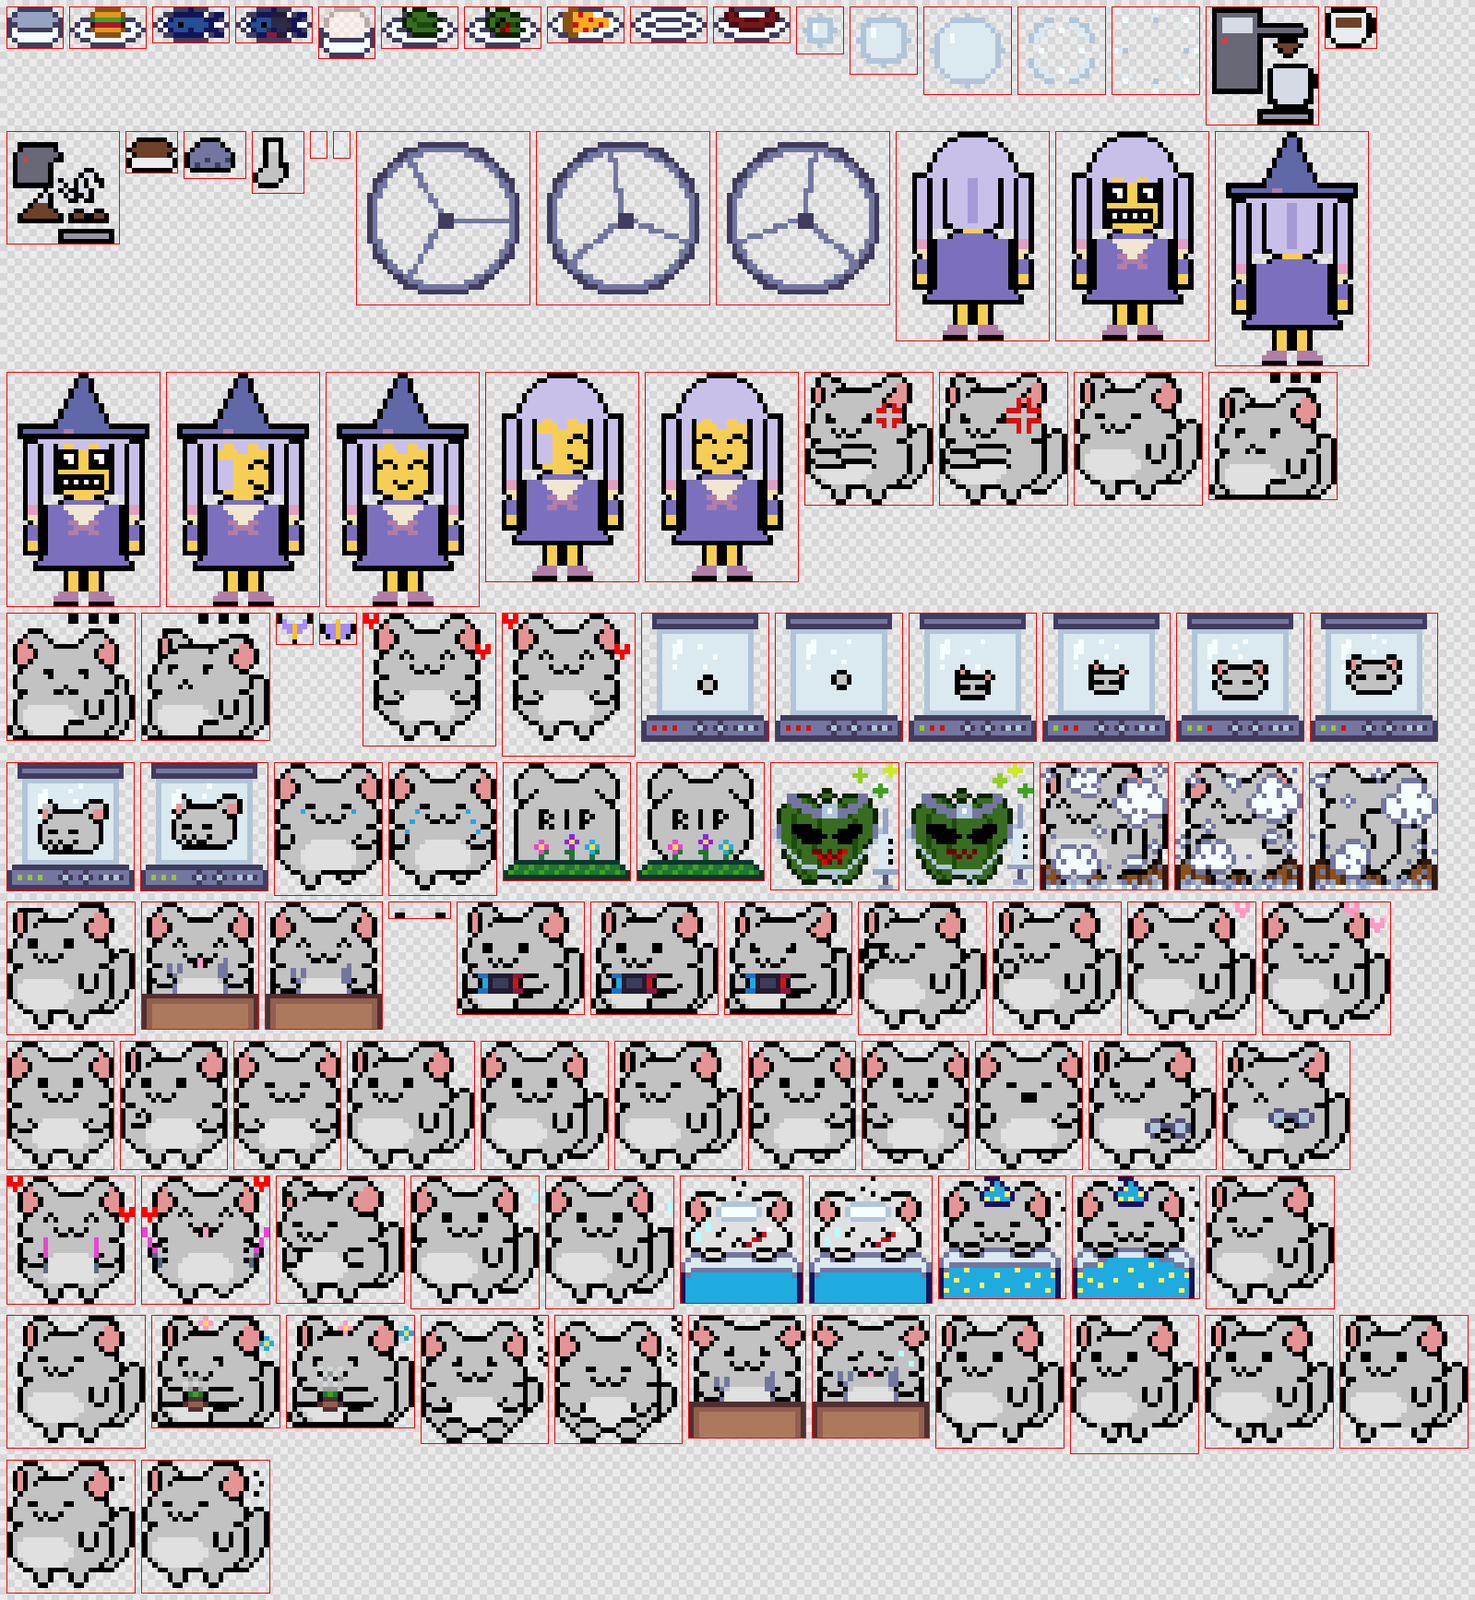
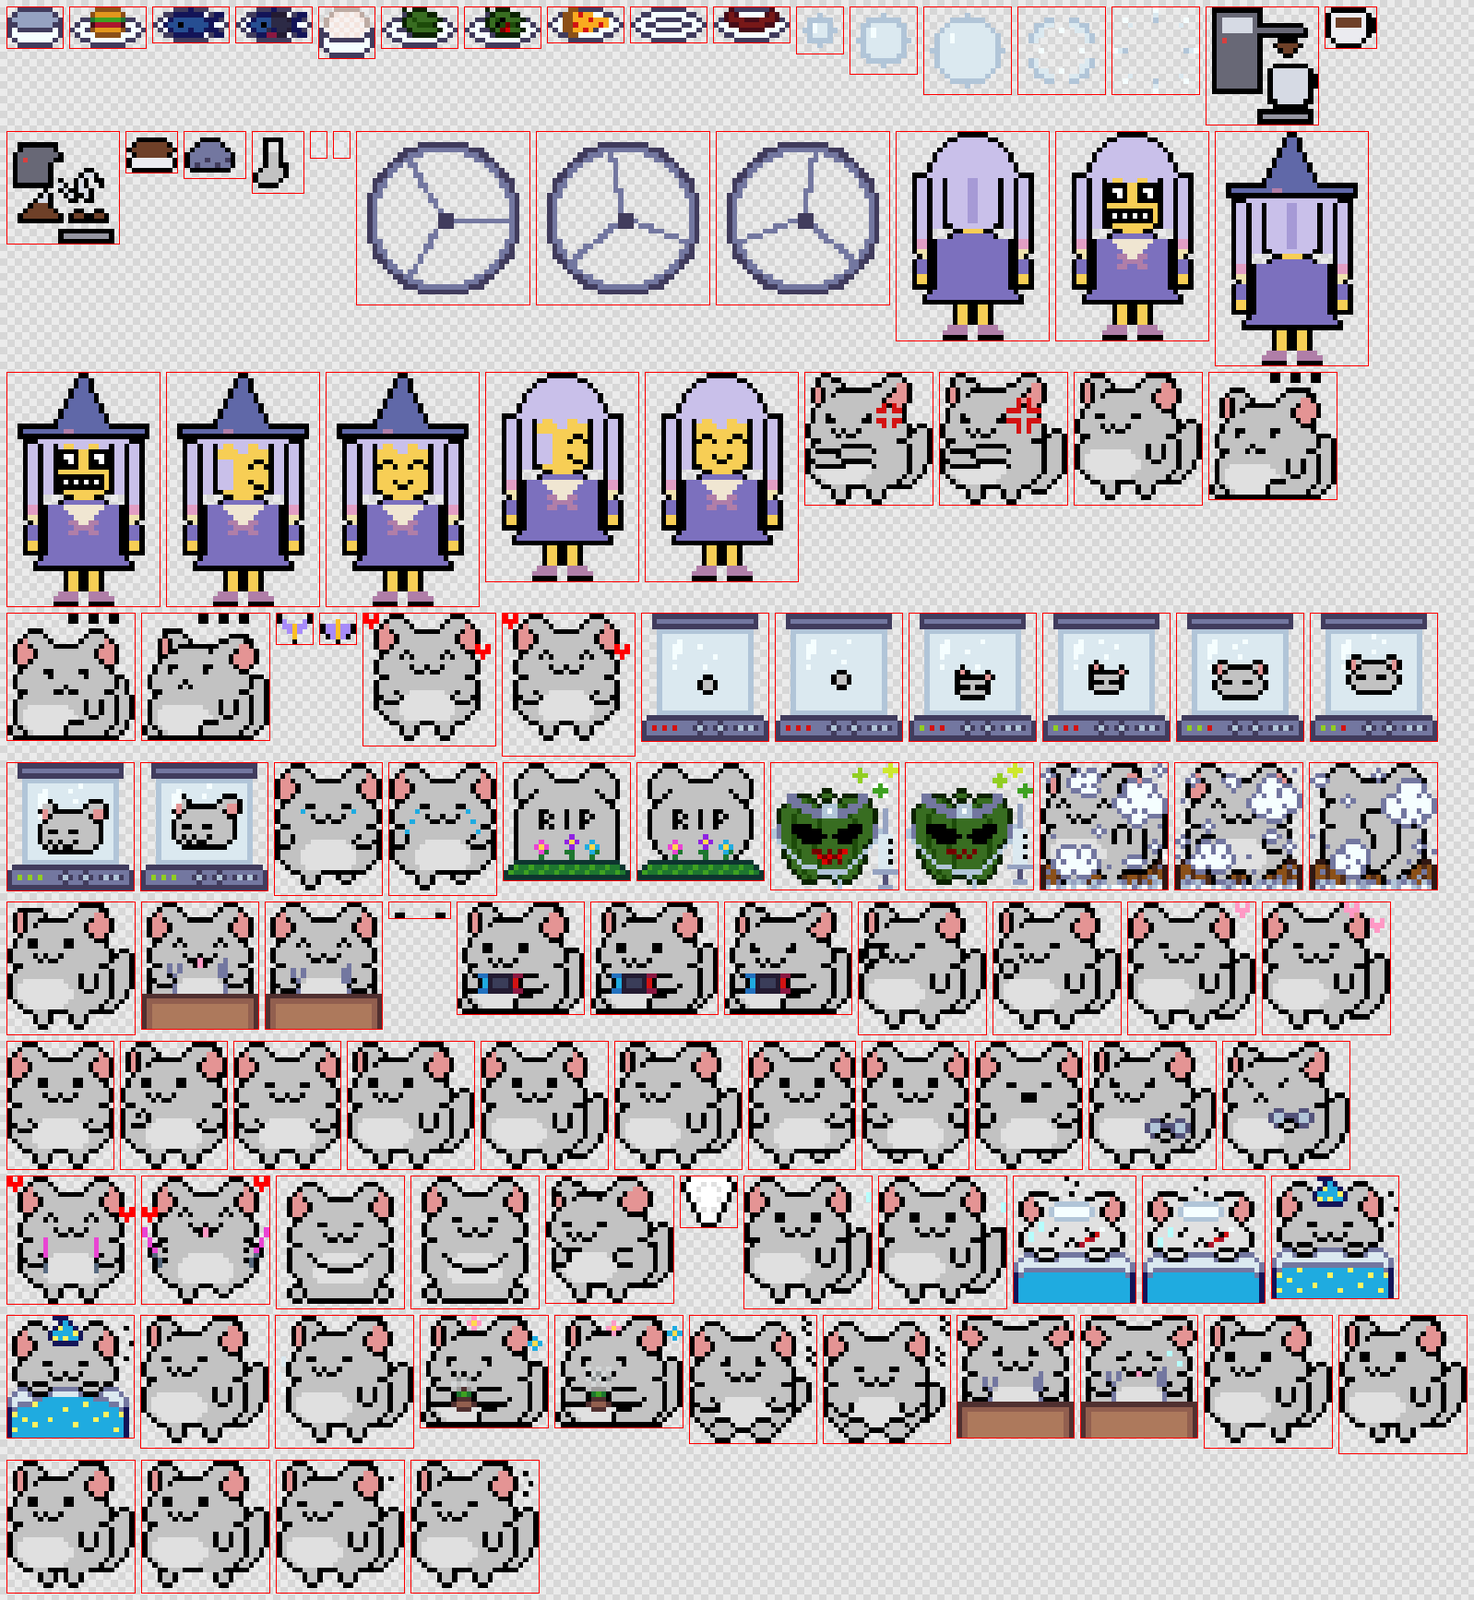
Added the Sage Beard and Meditation Sprites with Their Head Anchors

diff --git a/src/game/scene/head.ts b/src/game/scene/head.ts
@@ -12,6 +12,9 @@
 //     between the eyes, one art pixel above them. Not the hat anchor: the dip
 //     is the top of the skull, and tufts hung from it stood above the outline
 //     like a second pair of ears.
+//   • `beard` — where a sage's beard hangs (bottom-centre, like the brows):
+//     centred on the mouth, its top row the mouth's top row, so the moustache
+//     covers the mouth and the beard falls down the chest.
 //   • `nightcap` — the art already wears a hat here, so no cosmetic goes on
 //     top of it.
 //
@@ -19,8 +22,8 @@
 // gravestone, the medicine, the pet inside the cloning tank.
 //
 // Generated by `npm run head-anchors` and reviewed on its contact sheet; the
-// null frames are hand-set, as are dustbath3 and groom1, whose head and eye
-// are hidden.
+// null frames are hand-set, as are the dust bath's second and third frames
+// and groom1, where the dust or a paw hides an eye or the mouth.
 
 import type { FrameName } from "../atlas.generated";
 
@@ -28,16 +31,17 @@ export type HeadAnchor = {
   x: number;
   y: number;
   brows: { x: number; y: number };
+  beard: { x: number; y: number };
   nightcap?: true;
 };
 
 export const HEAD_ANCHORS: Partial<Record<FrameName, HeadAnchor | null>> = {
-  blink: { x: -13, y: -126, brows: { x: -22, y: -104 } },
-  bored1: { x: -7, y: -104, brows: { x: -17, y: -82 } },
-  bored2: { x: -6, y: -104, brows: { x: -6, y: -82 } },
-  bored3: { x: -2, y: -104, brows: { x: -17, y: -87 } },
-  cheer1: { x: -2, y: -126, brows: { x: -2, y: -109 } },
-  cheer2: { x: -2, y: -137, brows: { x: -2, y: -120 } },
+  blink: { x: -13, y: -126, brows: { x: -22, y: -104 }, beard: { x: -25, y: -33 } },
+  bored1: { x: -7, y: -104, brows: { x: -17, y: -82 }, beard: { x: -19, y: -5 } },
+  bored2: { x: -6, y: -104, brows: { x: -6, y: -82 }, beard: { x: -6, y: -5 } },
+  bored3: { x: -2, y: -104, brows: { x: -17, y: -87 }, beard: { x: -22, y: -11 } },
+  cheer1: { x: -2, y: -126, brows: { x: -2, y: -109 }, beard: { x: -2, y: -33 } },
+  cheer2: { x: -2, y: -137, brows: { x: -2, y: -120 }, beard: { x: -2, y: -44 } },
   clone1: null,
   clone2: null,
   clone3: null,
@@ -46,51 +50,53 @@ export const HEAD_ANCHORS: Partial<Record<FrameName, HeadAnchor | null>> = {
   clone6: null,
   clone7: null,
   clone8: null,
-  cry1: { x: 0, y: -126, brows: { x: 0, y: -104 } },
-  cry2: { x: 0, y: -126, brows: { x: 0, y: -104 } },
+  cry1: { x: 0, y: -126, brows: { x: 0, y: -104 }, beard: { x: 0, y: -33 } },
+  cry2: { x: 0, y: -126, brows: { x: 0, y: -104 }, beard: { x: 0, y: -33 } },
   dead1: null,
   drpepper1: null,
   drpepper2: null,
-  dustbath1: { x: -9, y: -126, brows: { x: -22, y: -104 } },
-  dustbath2: { x: 2, y: -121, brows: { x: 0, y: -87 } },
-  dustbath3: { x: 2, y: -121, brows: { x: 0, y: -87 } }, // dustbath2's pose, head under the dust
-  earTwitch: { x: -13, y: -126, brows: { x: -22, y: -109 } },
-  eat1: { x: 0, y: -121, brows: { x: 0, y: -104 } },
-  eat2: { x: 0, y: -121, brows: { x: 0, y: -104 } },
-  game1: { x: -7, y: -105, brows: { x: -16, y: -82 } },
-  game2: { x: -7, y: -105, brows: { x: -16, y: -82 } },
-  game3: { x: -7, y: -105, brows: { x: -16, y: -82 } },
-  groom1: { x: -13, y: -126, brows: { x: -22, y: -104 } }, // groom2's head, one eye behind the paw
-  groom2: { x: -13, y: -126, brows: { x: -22, y: -104 } },
-  heart1: { x: 0, y: -126, brows: { x: -11, y: -104 } },
-  heart2: { x: 0, y: -126, brows: { x: -11, y: -104 } },
-  idleFront1: { x: 0, y: -121, brows: { x: 0, y: -104 } },
-  idleSide1: { x: -12, y: -121, brows: { x: -22, y: -104 } },
-  idleSide2: { x: -11, y: -121, brows: { x: -11, y: -104 } },
-  idleSide3: { x: -12, y: -121, brows: { x: -22, y: -99 } },
-  lift1: { x: -12, y: -121, brows: { x: -22, y: -104 } },
-  lift2: { x: -12, y: -121, brows: { x: -22, y: -104 } },
-  lights1: { x: 0, y: -121, brows: { x: 0, y: -104 } },
-  lights2: { x: 0, y: -121, brows: { x: 0, y: -104 } },
-  pekori: { x: -14, y: -121, brows: { x: -28, y: -93 } },
-  shiver1: { x: -11, y: -126, brows: { x: -11, y: -109 } },
-  shiver2: { x: -11, y: -126, brows: { x: -11, y: -109 } },
-  sick1: { x: -3, y: -110, brows: { x: -3, y: -87 } },
-  sick2: { x: -3, y: -110, brows: { x: -3, y: -87 } },
-  sleep1: { x: -5, y: -116, brows: { x: -5, y: -88 }, nightcap: true },
-  sleep2: { x: -5, y: -116, brows: { x: -5, y: -88 }, nightcap: true },
-  sneeze1: { x: -13, y: -126, brows: { x: -22, y: -104 } },
-  sneeze2: { x: -7, y: -126, brows: { x: -16, y: -104 } },
-  tea1: { x: -7, y: -105, brows: { x: -17, y: -82 } },
-  tea2: { x: -7, y: -105, brows: { x: -17, y: -82 } },
-  tired1: { x: -11, y: -116, brows: { x: -11, y: -99 } },
-  tired2: { x: -11, y: -116, brows: { x: -11, y: -88 } },
-  unhappyEat1: { x: 0, y: -121, brows: { x: 0, y: -104 } },
-  unhappyEat2: { x: 0, y: -121, brows: { x: 0, y: -93 } },
-  walk1: { x: -13, y: -126, brows: { x: -22, y: -109 } },
-  walk2: { x: -13, y: -132, brows: { x: -22, y: -115 } },
-  walk3: { x: -13, y: -126, brows: { x: -22, y: -109 } },
-  walk4: { x: -13, y: -126, brows: { x: -22, y: -109 } },
-  yawn1: { x: -13, y: -126, brows: { x: -22, y: -104 } },
-  yawn2: { x: -13, y: -126, brows: { x: -22, y: -104 } },
+  dustbath1: { x: -9, y: -126, brows: { x: -22, y: -104 }, beard: { x: -25, y: -27 } },
+  dustbath2: { x: 2, y: -121, brows: { x: 0, y: -102 }, beard: { x: 0, y: -27 } }, // one eye under the dust: brows over it, beard on the mouth
+  dustbath3: { x: 2, y: -121, brows: { x: 0, y: -102 }, beard: { x: 0, y: -27 } }, // dustbath2's pose, head under the dust
+  earTwitch: { x: -13, y: -126, brows: { x: -22, y: -109 }, beard: { x: -25, y: -33 } },
+  eat1: { x: 0, y: -121, brows: { x: 0, y: -104 }, beard: { x: 0, y: -27 } },
+  eat2: { x: 0, y: -121, brows: { x: 0, y: -104 }, beard: { x: 0, y: -27 } },
+  game1: { x: -7, y: -105, brows: { x: -16, y: -82 }, beard: { x: -19, y: -6 } },
+  game2: { x: -7, y: -105, brows: { x: -16, y: -82 }, beard: { x: -19, y: -6 } },
+  game3: { x: -7, y: -105, brows: { x: -16, y: -82 }, beard: { x: -19, y: -6 } },
+  groom1: { x: -13, y: -126, brows: { x: -22, y: -104 }, beard: { x: -25, y: -33 } }, // groom2's head, one eye and the mouth behind the paw
+  groom2: { x: -13, y: -126, brows: { x: -22, y: -104 }, beard: { x: -25, y: -33 } },
+  heart1: { x: 0, y: -126, brows: { x: -11, y: -104 }, beard: { x: -11, y: -33 } },
+  heart2: { x: 0, y: -126, brows: { x: -11, y: -104 }, beard: { x: -11, y: -33 } },
+  idleFront1: { x: 0, y: -121, brows: { x: 0, y: -104 }, beard: { x: 0, y: -28 } },
+  idleSide1: { x: -12, y: -121, brows: { x: -22, y: -104 }, beard: { x: -25, y: -28 } },
+  idleSide2: { x: -11, y: -121, brows: { x: -11, y: -104 }, beard: { x: -11, y: -28 } },
+  idleSide3: { x: -12, y: -121, brows: { x: -22, y: -99 }, beard: { x: -25, y: -28 } },
+  lift1: { x: -12, y: -121, brows: { x: -22, y: -104 }, beard: { x: -25, y: -28 } },
+  lift2: { x: -12, y: -121, brows: { x: -22, y: -104 }, beard: { x: -27, y: -28 } },
+  lights1: { x: 0, y: -121, brows: { x: 0, y: -104 }, beard: { x: 0, y: -28 } },
+  lights2: { x: 0, y: -121, brows: { x: 0, y: -104 }, beard: { x: 0, y: -33 } },
+  meditate1: { x: 0, y: -121, brows: { x: 0, y: -98 }, beard: { x: 0, y: -27 } },
+  meditate2: { x: 0, y: -126, brows: { x: 0, y: -104 }, beard: { x: 0, y: -33 } },
+  pekori: { x: -14, y: -121, brows: { x: -28, y: -93 }, beard: { x: -31, y: -22 } },
+  shiver1: { x: -11, y: -126, brows: { x: -11, y: -109 }, beard: { x: -11, y: -33 } },
+  shiver2: { x: -11, y: -126, brows: { x: -11, y: -109 }, beard: { x: -11, y: -33 } },
+  sick1: { x: -3, y: -110, brows: { x: -3, y: -87 }, beard: { x: -3, y: -16 } },
+  sick2: { x: -3, y: -110, brows: { x: -3, y: -87 }, beard: { x: -3, y: -16 } },
+  sleep1: { x: -5, y: -116, brows: { x: -5, y: -88 }, beard: { x: -5, y: -17 }, nightcap: true },
+  sleep2: { x: -5, y: -116, brows: { x: -5, y: -88 }, beard: { x: -5, y: -17 }, nightcap: true },
+  sneeze1: { x: -13, y: -126, brows: { x: -22, y: -104 }, beard: { x: -25, y: -33 } },
+  sneeze2: { x: -7, y: -126, brows: { x: -16, y: -104 }, beard: { x: -19, y: -33 } },
+  tea1: { x: -7, y: -105, brows: { x: -17, y: -82 }, beard: { x: -20, y: -6 } },
+  tea2: { x: -7, y: -105, brows: { x: -17, y: -82 }, beard: { x: -20, y: -6 } },
+  tired1: { x: -11, y: -116, brows: { x: -11, y: -99 }, beard: { x: -11, y: -22 } },
+  tired2: { x: -11, y: -116, brows: { x: -11, y: -88 }, beard: { x: -11, y: -17 } },
+  unhappyEat1: { x: 0, y: -121, brows: { x: 0, y: -104 }, beard: { x: 0, y: -28 } },
+  unhappyEat2: { x: 0, y: -121, brows: { x: 0, y: -93 }, beard: { x: 0, y: -22 } },
+  walk1: { x: -13, y: -126, brows: { x: -22, y: -109 }, beard: { x: -25, y: -33 } },
+  walk2: { x: -13, y: -132, brows: { x: -22, y: -115 }, beard: { x: -25, y: -39 } },
+  walk3: { x: -13, y: -126, brows: { x: -22, y: -109 }, beard: { x: -25, y: -33 } },
+  walk4: { x: -13, y: -126, brows: { x: -22, y: -109 }, beard: { x: -25, y: -33 } },
+  yawn1: { x: -13, y: -126, brows: { x: -22, y: -104 }, beard: { x: -25, y: -33 } },
+  yawn2: { x: -13, y: -126, brows: { x: -22, y: -104 }, beard: { x: -25, y: -33 } },
 };

diff --git a/scripts/head-anchors.ts b/scripts/head-anchors.ts
@@ -1,7 +1,7 @@
 // Finds where the head is on every pet frame, for the table in
 // src/game/scene/head.ts (SPEC §10.5). Run `npm run head-anchors` after adding
 // pet frames; it prints candidate entries to paste, and a contact sheet with
-// the crown and an elder's brow tufts drawn on every frame for a look before
+// the crown, an elder's brow tufts and a sage's beard drawn on every frame for a look before
 // committing.
 //
 // Three things are read off the art:
@@ -15,13 +15,18 @@
 //     contours, which touch pink — level with each other and an eye-spacing
 //     apart. The tufts' brow bars sit one art pixel above them, and their fur
 //     never rises above the head outline.
+//   • The beard. The mouth is the small enclosed black marks a row of fur
+//     under the eyes and between them — the nose dot and the two curls of the
+//     smile, or whatever shape the pose pulls it into. A sage's beard hangs
+//     from the mouth's top row, centred on it, so the moustache covers the
+//     mouth and the beard falls down the chest.
 //   • A nightcap. When the skyline at the anchor column is a vivid colour the
 //     pet itself never is, the art already wears a hat, and a cosmetic drawn
 //     there would land on top of it.
 //
 // Frames with no ears (the egg, the gravestone, the medicine) get no
-// candidate and wear nothing; a frame whose eyes are hidden prints a comment
-// asking for its brows by hand.
+// candidate and wear nothing; a frame whose eyes or mouth are hidden prints a
+// comment asking for that point by hand.
 
 import { readFileSync, writeFileSync } from "node:fs";
 import { PNG } from "pngjs";
@@ -36,7 +41,18 @@ const MIN_EAR_PIXELS = 12;
 const EYE_SPACING = { min: 25, max: 50 };
 /** Rows between the bottom of the brow bars and the top of the eyes: one art pixel. */
 const BROW_GAP = 5;
+/**
+ * Rows of fur between the bottom of the eyes and the top of the mouth: at
+ * least one art pixel. A mark any nearer is the eye's own corner — the droop
+ * of a tired eye, the wings of a happy ^ ^ — not a piece of the mouth.
+ */
+const MOUTH_GAP = 5;
+/** How far below the eyes the mouth can start, in frame pixels: four art pixels. */
+const MOUTH_REACH = 22;
+/** A mark bigger than this under the eyes is a paw or a prop, not a piece of the mouth. */
+const MAX_MOUTH_PIECE = 100;
 const BROWS = SPRITE_FRAMES.elderBrows;
+const BEARD = SPRITE_FRAMES.sageBeard;
 
 type Rgba = [number, number, number, number];
 
@@ -68,7 +84,7 @@ const petFrames = (): FrameName[] => {
 
 type Blob = { x0: number; x1: number; y0: number; y1: number; size: number };
 type Point = { x: number; y: number };
-type Candidate = { name: FrameName; hat: (Point & { nightcap: boolean }) | null; brows: Point | null };
+type Candidate = { name: FrameName; hat: (Point & { nightcap: boolean }) | null; brows: Point | null; beard: Point | null };
 
 /**
  * Four-connected blobs of `matches` pixels within rows [0, rows), with
@@ -132,12 +148,39 @@ const eyes = (name: FrameName, dipRow: number): [Blob, Blob] | null => {
   return null;
 };
 
+/**
+ * The mouth's bounding box, in frame pixels: every small enclosed black mark
+ * that starts within reach below the eyes and sits strictly inside their
+ * outer edges — a paw raised to the face reaches those edges and is not a
+ * piece of the mouth. Null where nothing is left showing.
+ */
+const mouth = (name: FrameName, [left, right]: [Blob, Blob]): Blob | null => {
+  const f = SPRITE_FRAMES[name];
+  const pieces = blobs(name, f.h, isBlack, isPink).filter(
+    (blob) =>
+      !blob.touched &&
+      blob.size <= MAX_MOUTH_PIECE &&
+      blob.y0 > left.y1 + MOUTH_GAP &&
+      blob.y0 <= left.y1 + MOUTH_REACH &&
+      blob.x0 > left.x0 &&
+      blob.x1 < right.x1,
+  );
+  if (pieces.length === 0) return null;
+  return {
+    x0: Math.min(...pieces.map((piece) => piece.x0)),
+    x1: Math.max(...pieces.map((piece) => piece.x1)),
+    y0: Math.min(...pieces.map((piece) => piece.y0)),
+    y1: Math.max(...pieces.map((piece) => piece.y1)),
+    size: pieces.reduce((total, piece) => total + piece.size, 0),
+  };
+};
+
 const candidate = (name: FrameName): Candidate => {
   const f = SPRITE_FRAMES[name];
   const ears = blobs(name, Math.floor(f.h / 2), isPink)
     .filter((blob) => blob.size >= MIN_EAR_PIXELS)
     .sort((p, q) => p.x0 - q.x0);
-  if (ears.length < 2) return { name, hat: null, brows: null };
+  if (ears.length < 2) return { name, hat: null, brows: null, beard: null };
   const left = ears[0]!;
   const right = ears[ears.length - 1]!;
   let floor = 0;
@@ -154,6 +197,7 @@ const candidate = (name: FrameName): Candidate => {
   // bottom-centre as the atlas snaps it, rows from the frame's bottom edge.
   const toHeadSpace = (x: number, y: number): Point => ({ x: Math.round(x) - Math.floor(f.w / 2), y: y - f.h });
   const pair = eyes(name, floor);
+  const lips = pair && mouth(name, pair);
   return {
     name,
     hat: { ...toHeadSpace(centre, floor), nightcap },
@@ -161,6 +205,8 @@ const candidate = (name: FrameName): Candidate => {
     // second pair of ears this table exists to prevent: the fur's top row
     // never rises above the head outline.
     brows: pair && toHeadSpace((centreOf(pair[0]) + centreOf(pair[1])) / 2, Math.max(pair[0].y0 - BROW_GAP, floor + BROWS.h)),
+    // Bottom-centre like the brows, so the beard's top row is the mouth's.
+    beard: lips && toHeadSpace(centreOf(lips), lips.y0 + BEARD.h),
   };
 };
 
@@ -195,8 +241,9 @@ const contactSheet = (candidates: Candidate[]): void => {
     blit(f.x, f.y, f.w, f.h, ox, oy);
     const footX = ox + Math.floor(f.w / 2);
     const footY = oy + f.h;
-    // The tufts as the atlas draws them: bottom-centre on the brow point.
+    // The tufts and the beard as the atlas draws them: bottom-centre on their points.
     if (c.brows) blit(BROWS.x, BROWS.y, BROWS.w, BROWS.h, footX + c.brows.x - BROWS.w / 2, footY + c.brows.y - BROWS.h);
+    if (c.beard) blit(BEARD.x, BEARD.y, BEARD.w, BEARD.h, footX + c.beard.x - BEARD.w / 2, footY + c.beard.y - BEARD.h);
     if (!c.hat || c.hat.nightcap) return;
     // The crown as room.ts draws it, so what the sheet shows is what ships.
     const ax = footX + c.hat.x;
@@ -211,14 +258,21 @@ const contactSheet = (candidates: Candidate[]): void => {
   writeFileSync(CONTACT, PNG.sync.write(out));
 };
 
-const entry = ({ name, hat, brows }: Candidate): string => {
+const entry = ({ name, hat, brows, beard }: Candidate): string => {
   if (!hat) return `  ${name}: null, // no ears in this frame`;
-  const point = (p: Point): string => `{ x: ${p.x}, y: ${p.y} }`;
-  const browsText = brows ? point(brows) : "null /* eyes hidden: set by hand */";
-  return `  ${name}: { x: ${hat.x}, y: ${hat.y}, brows: ${browsText}${hat.nightcap ? ", nightcap: true" : ""} },`;
+  const point = (p: Point | null, hidden: string): string => (p ? `{ x: ${p.x}, y: ${p.y} }` : `null /* ${hidden} hidden: set by hand */`);
+  const fields = [`x: ${hat.x}`, `y: ${hat.y}`, `brows: ${point(brows, "eyes")}`, `beard: ${point(beard, "mouth")}`];
+  if (hat.nightcap) fields.push("nightcap: true");
+  return `  ${name}: { ${fields.join(", ")} },`;
 };
 
-const candidates = petFrames().map(candidate);
+// Art can land before the clip that plays it: `npm run head-anchors -- meditate1`
+// adds frames by name to the clips' own.
+const extra = process.argv.slice(2).map((name) => {
+  if (!(name in SPRITE_FRAMES)) throw new Error(`${name} is not a frame in the atlas`);
+  return name as FrameName;
+});
+const candidates = [...new Set([...petFrames(), ...extra])].sort().map(candidate);
 for (const c of candidates) console.log(entry(c));
 contactSheet(candidates);
 console.log(`head-anchors: ${candidates.length} frames → ${CONTACT.pathname}`);

diff --git a/src/game/atlas.generated.ts b/src/game/atlas.generated.ts
@@ -2,7 +2,7 @@
 // after any change under art/ and review the contact sheet.
 
 /** The packed sheet these frame rectangles index — hashed together, stale never. */
-export const SPRITE_SHEET_URL = "/sprites.7f87ea0cf8.png";
+export const SPRITE_SHEET_URL = "/sprites.a700620e04.png";
 
 export type SpriteFrame = { x: number; y: number; w: number; h: number };
 
@@ -92,27 +92,30 @@ export const SPRITE_FRAMES = {
   lift2: { x: 1326, y: 1129, w: 137, h: 138 },
   lights1: { x: 8, y: 1275, w: 138, h: 138 },
   lights2: { x: 154, y: 1275, w: 138, h: 138 },
-  pekori: { x: 300, y: 1275, w: 138, h: 137 },
-  shiver1: { x: 446, y: 1275, w: 138, h: 143 },
-  shiver2: { x: 592, y: 1275, w: 138, h: 143 },
-  sick1: { x: 738, y: 1275, w: 132, h: 137 },
-  sick2: { x: 878, y: 1275, w: 132, h: 137 },
-  sleep1: { x: 1018, y: 1275, w: 137, h: 132 },
-  sleep2: { x: 1163, y: 1275, w: 137, h: 132 },
-  sneeze1: { x: 1308, y: 1275, w: 138, h: 143 },
-  sneeze2: { x: 8, y: 1426, w: 149, h: 143 },
-  tea1: { x: 165, y: 1426, w: 138, h: 121 },
-  tea2: { x: 311, y: 1426, w: 138, h: 121 },
-  tired1: { x: 457, y: 1426, w: 137, h: 138 },
-  tired2: { x: 602, y: 1426, w: 137, h: 138 },
-  unhappyEat1: { x: 747, y: 1426, w: 126, h: 132 },
-  unhappyEat2: { x: 881, y: 1426, w: 126, h: 132 },
-  walk1: { x: 1015, y: 1426, w: 138, h: 143 },
-  walk2: { x: 1161, y: 1426, w: 138, h: 149 },
-  walk3: { x: 1307, y: 1426, w: 138, h: 143 },
-  walk4: { x: 1453, y: 1426, w: 138, h: 143 },
-  yawn1: { x: 8, y: 1583, w: 138, h: 143 },
-  yawn2: { x: 154, y: 1583, w: 138, h: 143 },
+  meditate1: { x: 300, y: 1275, w: 138, h: 143 },
+  meditate2: { x: 446, y: 1275, w: 138, h: 143 },
+  pekori: { x: 592, y: 1275, w: 138, h: 137 },
+  sageBeard: { x: 738, y: 1275, w: 61, h: 55 },
+  shiver1: { x: 807, y: 1275, w: 138, h: 143 },
+  shiver2: { x: 953, y: 1275, w: 138, h: 143 },
+  sick1: { x: 1099, y: 1275, w: 132, h: 137 },
+  sick2: { x: 1239, y: 1275, w: 132, h: 137 },
+  sleep1: { x: 1379, y: 1275, w: 137, h: 132 },
+  sleep2: { x: 8, y: 1426, w: 137, h: 132 },
+  sneeze1: { x: 153, y: 1426, w: 138, h: 143 },
+  sneeze2: { x: 299, y: 1426, w: 149, h: 143 },
+  tea1: { x: 456, y: 1426, w: 138, h: 121 },
+  tea2: { x: 602, y: 1426, w: 138, h: 121 },
+  tired1: { x: 748, y: 1426, w: 137, h: 138 },
+  tired2: { x: 893, y: 1426, w: 137, h: 138 },
+  unhappyEat1: { x: 1038, y: 1426, w: 126, h: 132 },
+  unhappyEat2: { x: 1172, y: 1426, w: 126, h: 132 },
+  walk1: { x: 1306, y: 1426, w: 138, h: 143 },
+  walk2: { x: 1452, y: 1426, w: 138, h: 149 },
+  walk3: { x: 8, y: 1583, w: 138, h: 143 },
+  walk4: { x: 154, y: 1583, w: 138, h: 143 },
+  yawn1: { x: 300, y: 1583, w: 138, h: 143 },
+  yawn2: { x: 446, y: 1583, w: 138, h: 143 },
 } as const satisfies Record<string, SpriteFrame>;
 
 export type FrameName = keyof typeof SPRITE_FRAMES;
